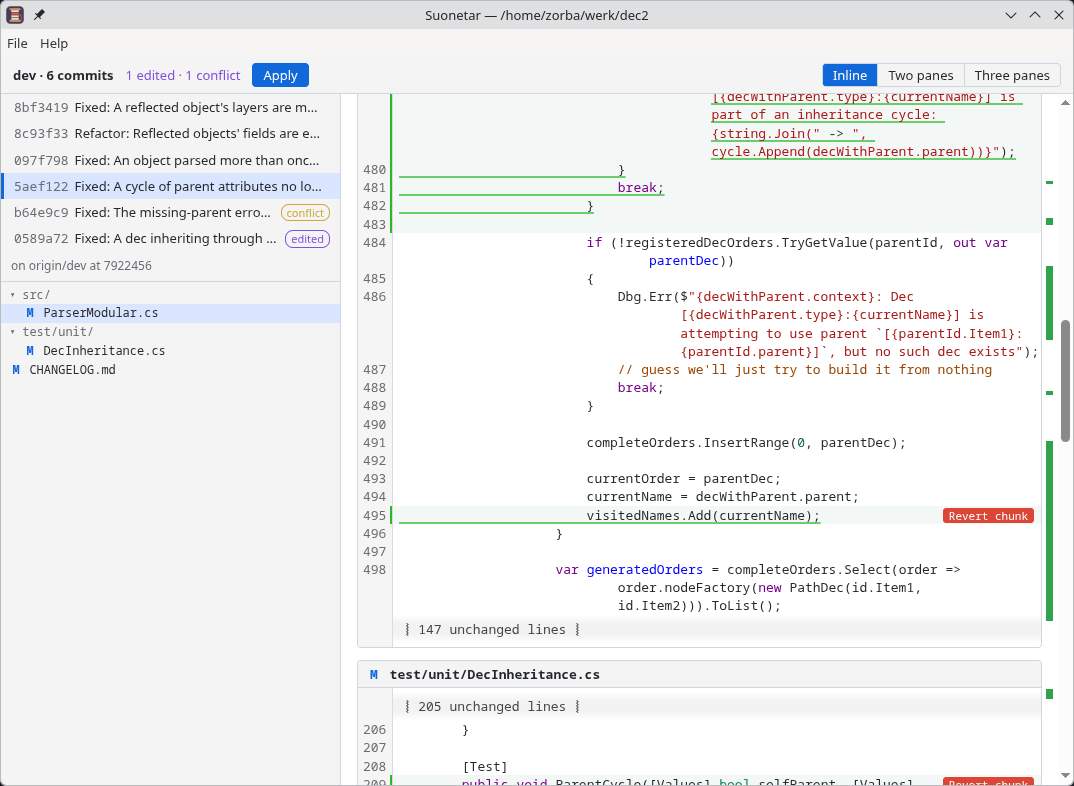
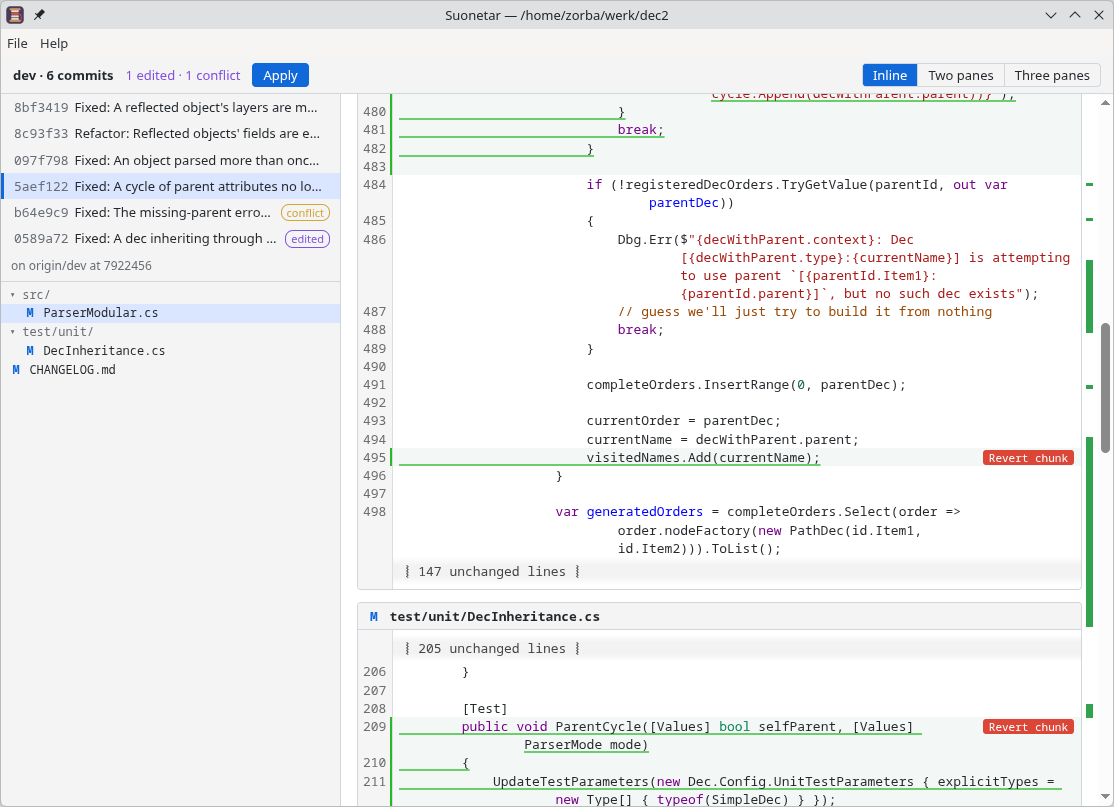
Show the README screenshot in the reader's theme
A dark-mode screenshot sits beside the light one, and a <picture> picks between them by prefers-color-scheme, so the screenshot no longer glares on a dark page. Both are retaken at the same window size and cropped to the window.

Claude-Session: https://claude.ai/code/session_01GGxYCQK1ph4S1kdeq2sNkk

diff --git a/README.md b/README.md
@@ -8,7 +8,10 @@ Suonetar is a commit-stack editor for Git. It's designed for weirdos who use LLM
 
 It lets you scrub through the commits on a branch, open any one of them in a real editor, change its files or message, and Apply; every commit above it is restacked automatically, with nothing left half-done in the repository.
 
-![Suonetar showing a six-commit stack, with one commit edited and one in conflict, and the selected commit's diff shown inline](docs/suonetar-demo.png)
+<picture>
+  <source media="(prefers-color-scheme: dark)" srcset="docs/suonetar-demo-dark.png">
+  <img alt="Suonetar showing a six-commit stack, with one commit edited and one in conflict, and the selected commit's diff shown inline" src="docs/suonetar-demo.png">
+</picture>
 
 It's built to sit beside an agent (Claude Code, for those with taste, smug emoji here) that commits in the same repository's main worktree. Reading an agent's stack of commits and fixing the one that went wrong happens in one view, and Suonetar never stashes, checks out, or rebases in your working tree.
 
